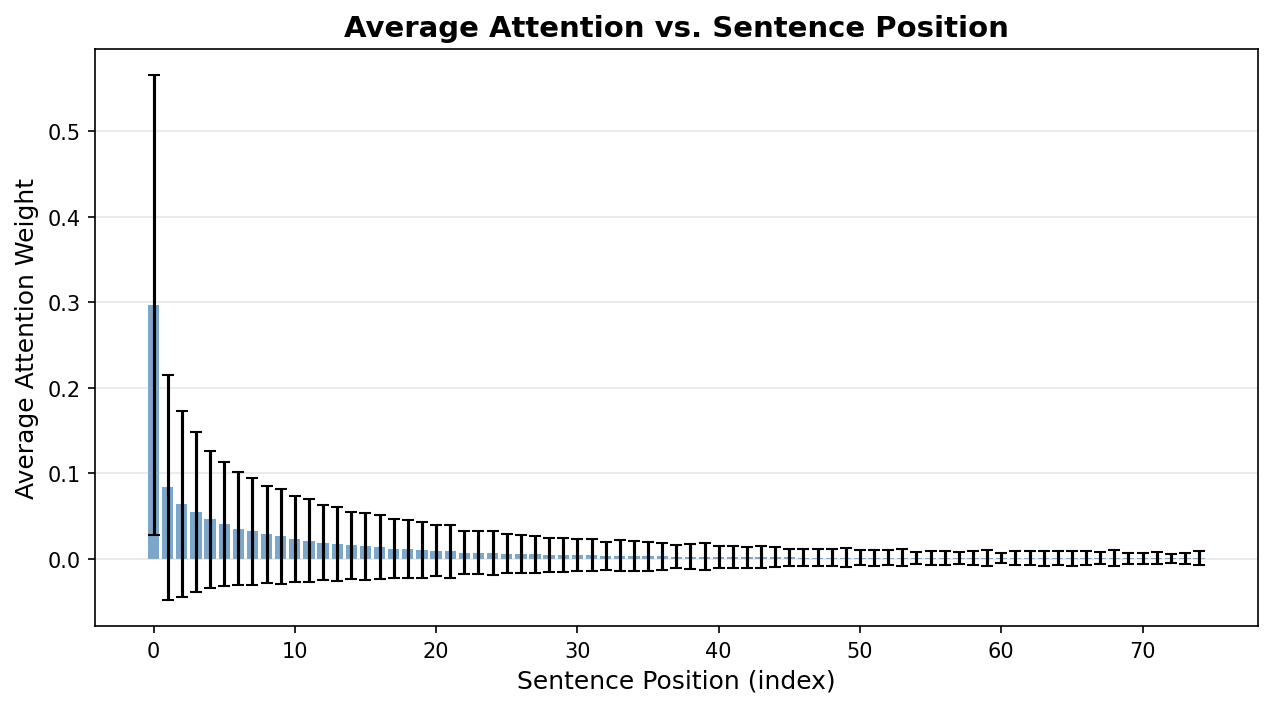
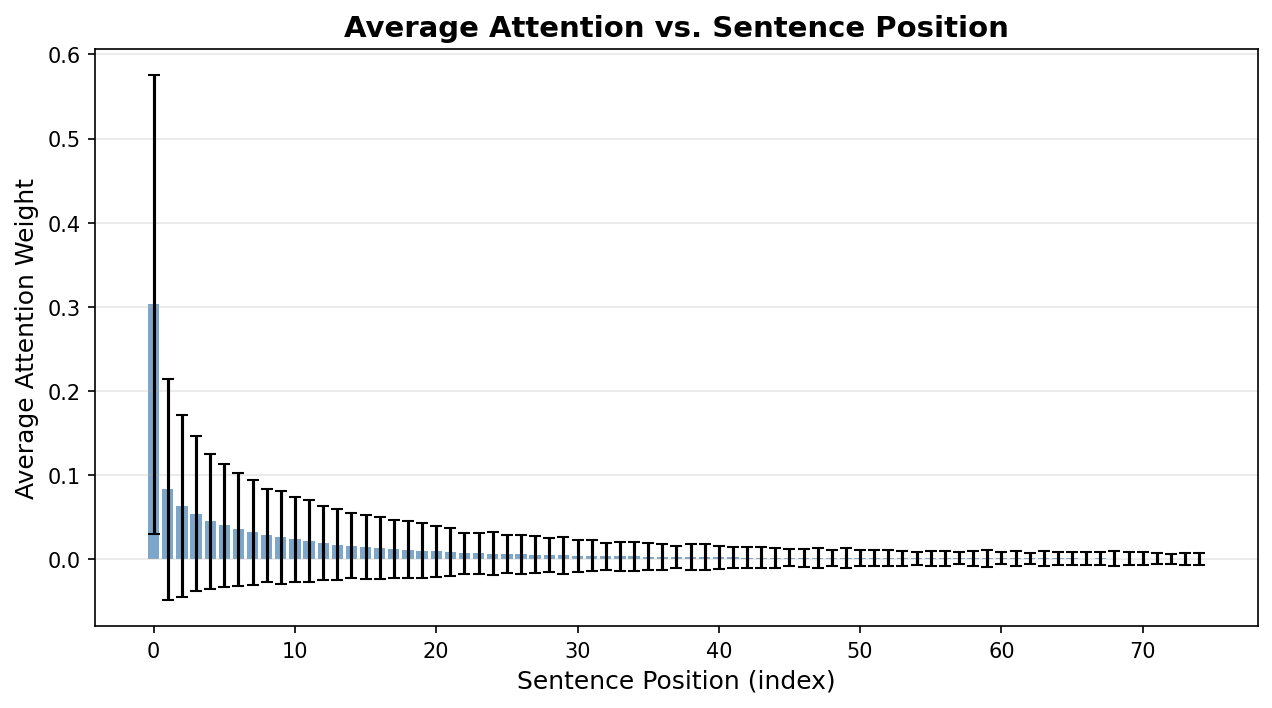
cummulative attention

diff --git a/text_classification/classification_HAN.py b/text_classification/classification_HAN.py
@@ -274,6 +274,114 @@ def plot_confusion_with_attention(val_true, val_preds, attn_weights_all, label_e
     plt.tight_layout()
     plt.show()
 
+def analyze_cumulative_attention(val_attentions, val_masks, save_dir=None):
+    """
+    Analyze cumulative attention coverage.
+    
+    Shows: "How many sentences do you actually need?"
+    Generates: Cumulative coverage plot + Attention distribution plot
+    
+    Args:
+        val_attentions: (n_docs, max_sentences) attention weights
+        val_masks: (n_docs, max_sentences) mask (1=real sentence, 0=padding)
+        save_dir: If set, save plot to this directory
+    """
+    # Mask out padding
+    masked_attentions = val_attentions * val_masks
+    
+    # Per-document: cumulative attention by sentence POSITION
+    cumulative_by_position = np.cumsum(masked_attentions, axis=1)
+    avg_cumulative = np.mean(cumulative_by_position, axis=0)
+    
+    print(f"\n{'='*60}")
+    print(f"📊 CUMULATIVE ATTENTION COVERAGE")
+    print(f"{'='*60}")
+    print(f"\nBy reading first N sentences (in order), you capture:\n")
+    
+    for n in [1, 2, 3, 5, 8, 10, 12, 15, 20, 25, 30, val_attentions.shape[1]]:
+        if n <= len(avg_cumulative):
+            coverage = avg_cumulative[n-1] * 100
+            bar = '█' * int(coverage // 4)
+            print(f"   First {n:2d} sentences: {coverage:5.1f}% {bar}")
+    
+    # Find thresholds
+    print(f"\n💡 Optimal max_sentences recommendations:")
+    for target in [0.90, 0.95, 0.99]:
+        n_needed = int(np.argmax(avg_cumulative >= target) + 1)
+        print(f"   To capture {target:.0%} of decision: max_sentences = {n_needed}")
+    
+    # Diminishing returns point (where marginal gain < 0.5%)
+    diffs = np.diff(avg_cumulative)
+    elbow = None
+    for i in range(len(diffs)):
+        if diffs[i] < 0.005:
+            elbow = i + 1
+            break
+    
+    if elbow:
+        print(f"\n   ⚠  Diminishing returns after {elbow} sentences")
+        print(f"      (each additional sentence adds <0.5% to decision)")
+        print(f"      → Consider reducing max_sentences from {val_attentions.shape[1]} to {elbow}")
+        print(f"      → Saves {(1 - elbow/val_attentions.shape[1])*100:.0f}% compute")
+    
+    # ---- Plot: Cumulative coverage + Attention distribution ----
+    fig, axes = plt.subplots(1, 2, figsize=(14, 5))
+    
+    # Plot 1: Cumulative coverage curve
+    x = np.arange(1, len(avg_cumulative) + 1)
+    axes[0].plot(x, avg_cumulative * 100, 'b-o', linewidth=2, markersize=4)
+    axes[0].axhline(y=90, color='green', linestyle='--', alpha=0.7, label='90%')
+    axes[0].axhline(y=95, color='orange', linestyle='--', alpha=0.7, label='95%')
+    axes[0].axhline(y=99, color='red', linestyle='--', alpha=0.7, label='99%')
+    axes[0].set_xlabel('Number of Sentences (first N)')
+    axes[0].set_ylabel('Cumulative Decision Coverage (%)')
+    axes[0].set_title('How Many Sentences Do You Need?')
+    axes[0].legend()
+    axes[0].grid(True, alpha=0.3)
+    
+    # Plot 2: Attention per position (bar chart)
+    avg_attn = np.mean(masked_attentions, axis=0)
+    std_attn = np.std(masked_attentions, axis=0)
+    axes[1].bar(x, avg_attn * 100, yerr=std_attn * 100, capsize=3,
+                color='steelblue', alpha=0.7, edgecolor='white')
+    axes[1].set_xlabel('Sentence Position')
+    axes[1].set_ylabel('Average Attention Weight (%)')
+    axes[1].set_title('Attention Distribution by Position')
+    axes[1].grid(True, alpha=0.3, axis='y')
+    
+    plt.tight_layout()
+    if save_dir:
+        plt.savefig(os.path.join(save_dir, 'cumulative_attention.png'), dpi=150, bbox_inches='tight')
+    plt.show()
+    
+    # ---- Importance-sorted cumulative (bonus analysis) ----
+    sorted_attentions = np.sort(masked_attentions, axis=1)[:, ::-1]
+    cumulative_sorted = np.cumsum(sorted_attentions, axis=1)
+    avg_cumulative_sorted = np.mean(cumulative_sorted, axis=0)
+    
+    print(f"\n{'─'*60}")
+    print(f"📊 IMPORTANCE-SORTED (If you could pick best sentences)")
+    print(f"{'─'*60}")
+    print(f"\n   {'N':<5} {'By Position':<18} {'By Importance':<18} {'Gap':<10}")
+    print(f"   {'─'*5} {'─'*18} {'─'*18} {'─'*10}")
+    
+    for n in [1, 2, 3, 5, 8, 10]:
+        if n <= len(avg_cumulative):
+            pos = avg_cumulative[n-1] * 100
+            imp = avg_cumulative_sorted[n-1] * 100
+            gap = imp - pos
+            print(f"   {n:<5} {pos:<18.1f}% {imp:<18.1f}% {gap:<+10.1f}%")
+    
+    gap_5 = avg_cumulative_sorted[4] - avg_cumulative[4]
+    if gap_5 > 0.10:
+        print(f"\n   ⚠  Large gap ({gap_5*100:.1f}%) at 5 sentences")
+        print(f"      → HAN attention is NOT finding the best sentences")
+        print(f"      → Model may need more training or different architecture")
+    else:
+        print(f"\n   ✅ Small gap → HAN is correctly identifying important sentences")
+    
+    return avg_cumulative
+
 # ============================================================
 # MAIN TRAINING SCRIPT
 # ============================================================
@@ -469,7 +577,22 @@ def main():
     
     # 3. Attention per class (optional)
     print(f"\n   📊 Aggregate attention by sentence position saved to 'attention_position_distribution.png'")
+
+    # ================================================================
+    # CUMULATIVE ATTENTION ANALYSIS (NEW)
+    # ================================================================
+    print(f"\n{'='*60}")
+    print(f"🔍 Cumulative Attention Analysis")
+    print(f"{'='*60}")
     
+    avg_cumulative = analyze_cumulative_attention(
+        val_attentions,
+        val_masks,
+        save_dir=MODEL_SAVE_DIR
+    )
+    
+    print(f"\n   📊 Cumulative attention chart saved to 'cumulative_attention.png'")
+
     # --- Training history plots ---
     fig, axes = plt.subplots(1, 2, figsize=(12, 4))
     
@@ -498,7 +621,7 @@ def main():
     print(f"   Confusion matrix: {os.path.join(MODEL_SAVE_DIR, 'confusion_matrix.png')}")
     print(f"   Training history: {os.path.join(MODEL_SAVE_DIR, 'training_history.png')}")
     print(f"   Attention distribution: {os.path.join(MODEL_SAVE_DIR, 'attention_position_distribution.png')}")
-
+    print(f"   Cumulative attention:  {os.path.join(MODEL_SAVE_DIR, 'cumulative_attention.png')}")
 
 # ============================================================
 # INFERENCE EXAMPLE

diff --git a/text_classification/readme.md b/text_classification/readme.md
@@ -1,15 +1,12 @@
+## Text Classification Experiment
 
+### Dataset & Configuration
+* **Dataset:** Vietnam Curated Dataset (100k record subset for experimentation)
+* **Embedding Model:** PhoBERT-v2
 
-Target: Text classification
-Dataset: Vietnam Curated Dataset - subset 100k records for experiment
+### Current Approaches & Findings
+* **Hierarchical Attention Network (HAN):** Yields higher performance compared to the generative approach, but requires substantial GPU resources during the embedding conversion stage.
+* **Generative (Zero-shot):** Tested as a baseline, showing lower performance compared to HAN.
 
-Method: 
-Embedding vector: Phobert-v2
-
-Classification:
-HAN - Hierarchical Attention Network
-Generative - Zero-shot learning
-
-Current result: HAN has higher performance than Generative. But it requires much GPU for embedding vector convert
-
-
+### Next Steps / TODO
+* **Single-Stage Fine-tuning:** Fine-tune PhoBERT-v2 directly on the classification task to streamline the pipeline into a single stage and optimize resource utilization.
